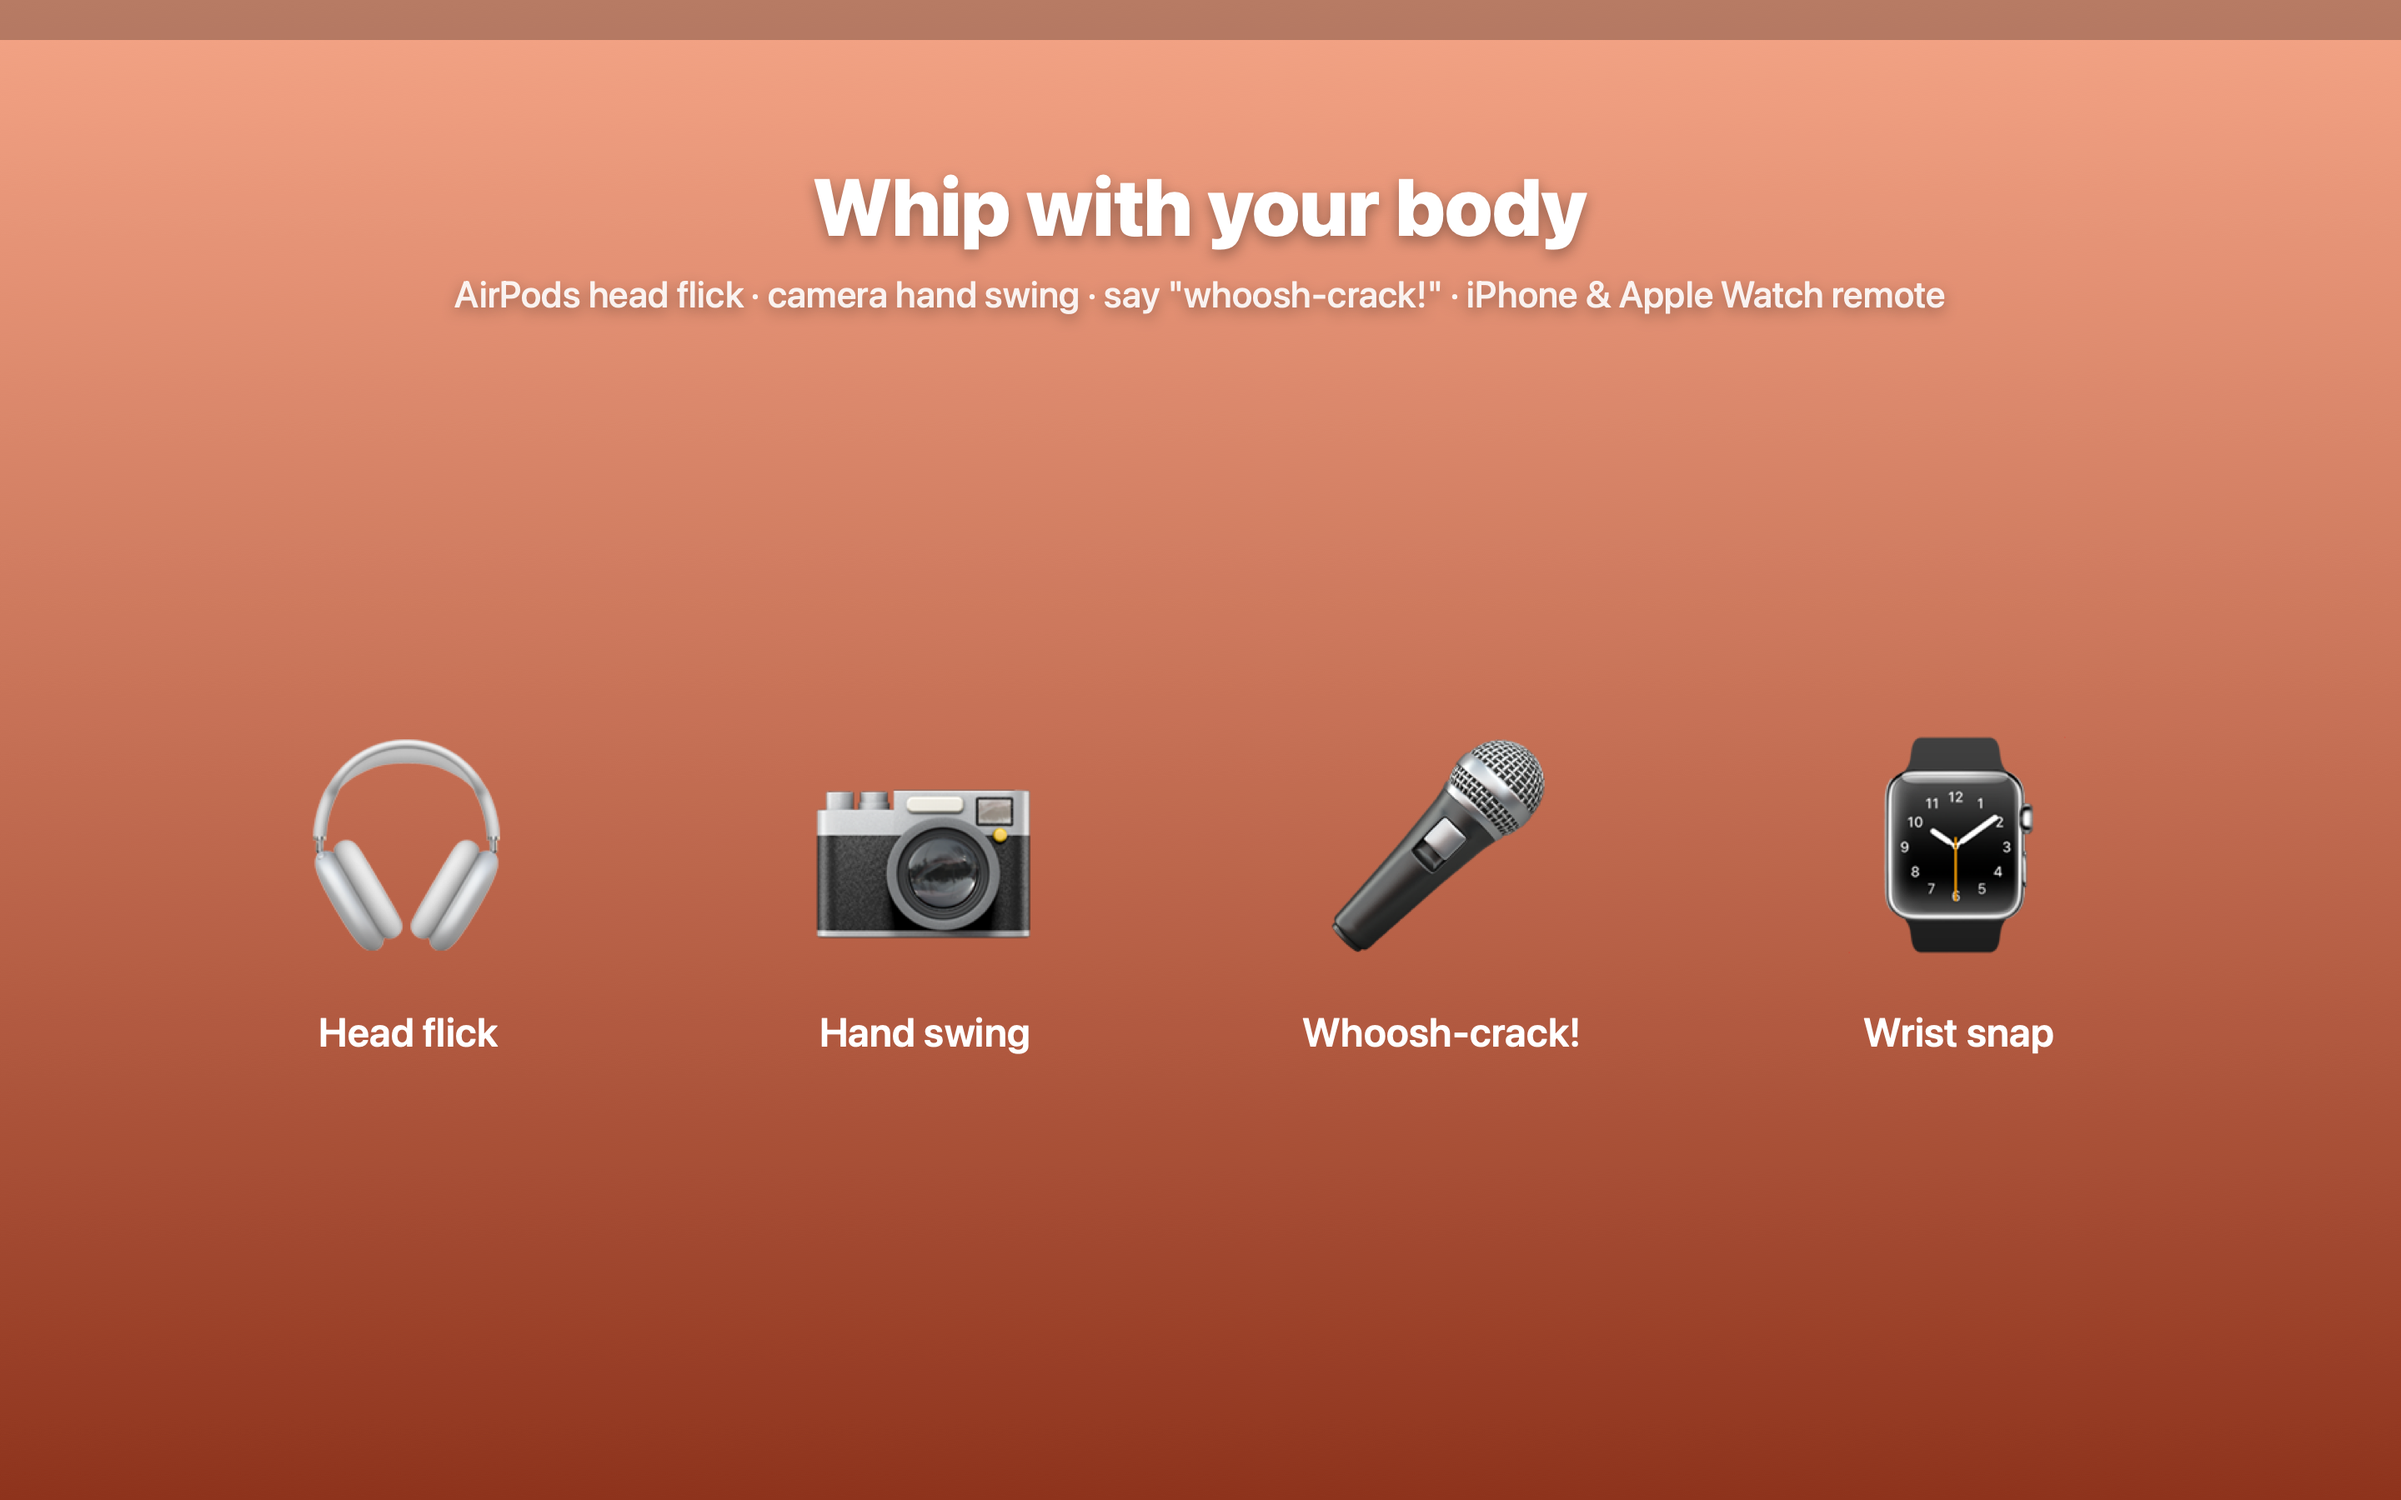
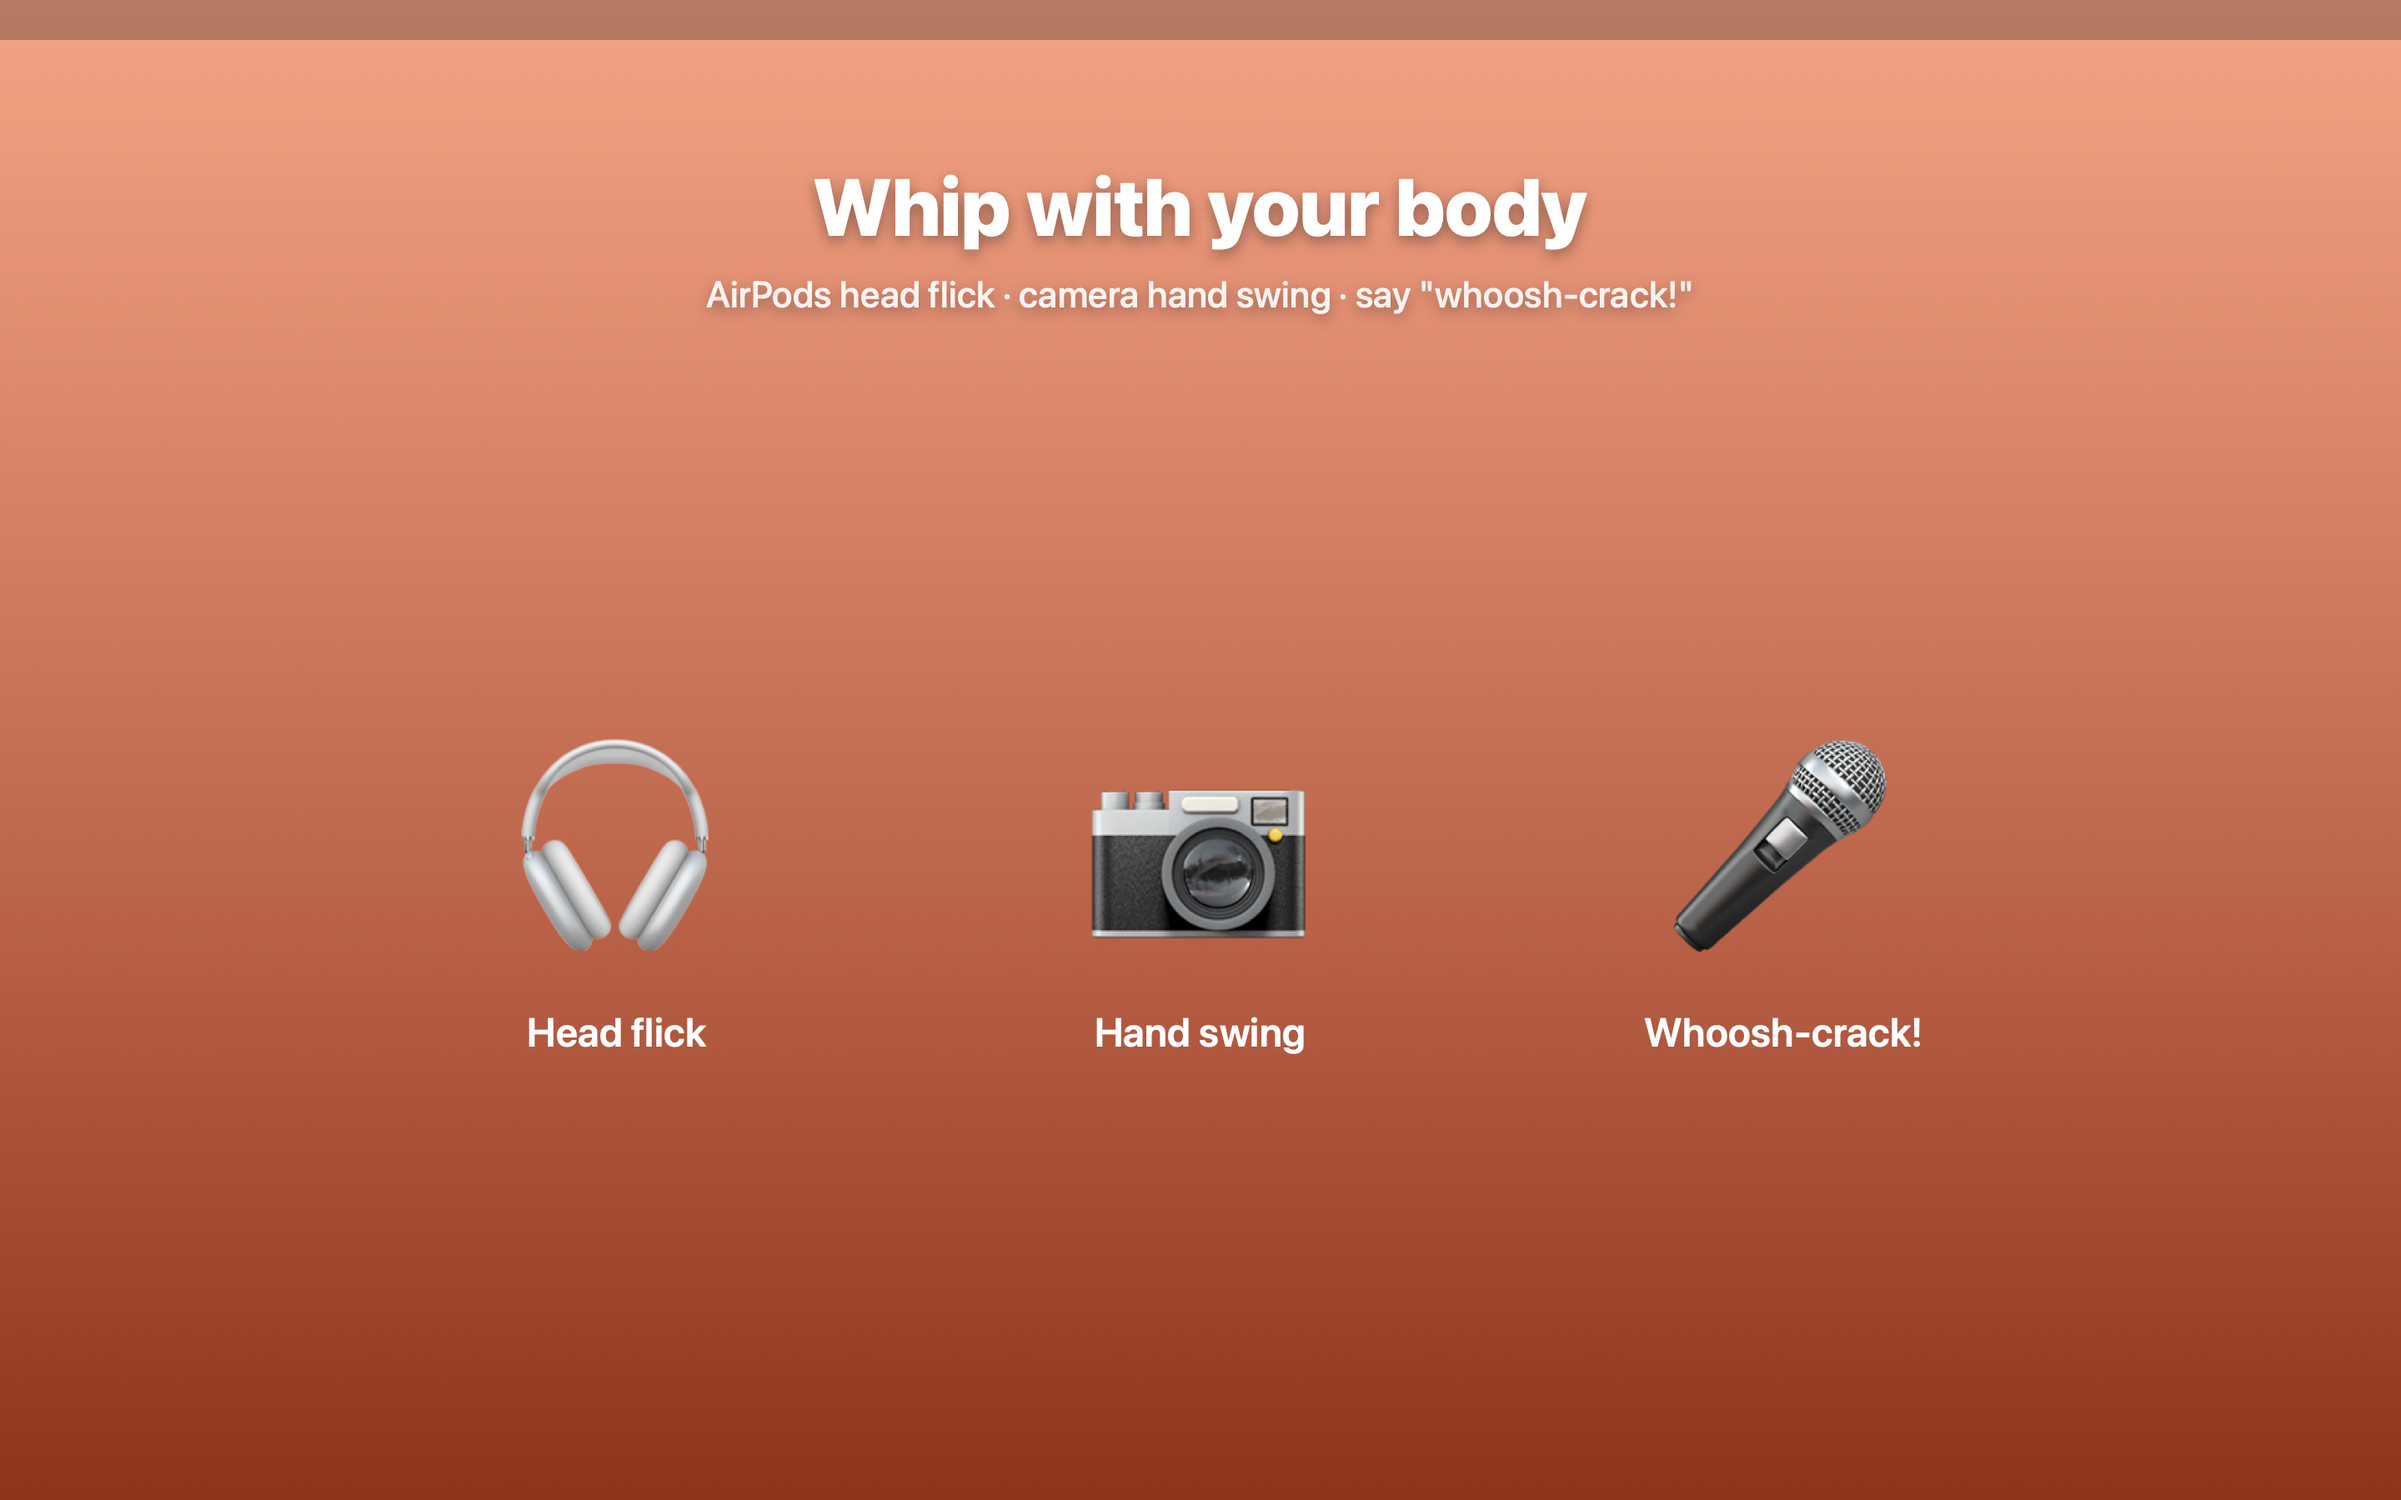
앱스토어판 빌드 5: 리모트와 네트워크 권한 제거, 심사 재제출
애플 자동 검사가 빌드 4의 com.apple.security.network.server 를 "맞는 기능이 안 보인다"며 멈췄고
(2026-11-12), 설명 답장(11-13)에 이틀 동안 답이 없어 권한을 빼는 쪽으로 갔다.

- 샌드박스일 때 아이폰·워치 리모트 스위치를 숨기고 수신을 시작하지 않는다
- Whiplash.entitlements 에서 network.server / network.client 제거
- 앱스토어 빌드의 Info.plist 에서 로컬 네트워크 키 제거 (project.yml 빌드 후 스크립트, build.sh --sandbox)
- 스크린샷 5와 스토어 설명에서 리모트 언급 제거
- release.sh: Xcode 계정 로그인이 풀렸을 때 App Store Connect API 열쇠로 올리는 옵션
- 체크리스트: 2026-11-15 재제출 상태

소스 빌드판(전 기능)은 그대로다.

diff --git a/Sources/App.swift b/Sources/App.swift
@@ -1181,10 +1181,13 @@ final class AppDelegate: NSObject, NSApplicationDelegate, NSMenuDelegate {
         line(m.handCamOn ? handSwing.status : t("Swing a hand sideways in front of the camera, arm's length away"))
         body.addItem(menuItem(t("Say \"whoosh-crack!\" — microphone"), on: m.mouthOn) { m.mouthOn.toggle() })
         line(m.mouthOn ? mouth.status : t("A short sharp burst after a quiet moment; talking doesn't count"))
-        body.addItem(menuItem(t("Accept iPhone / iPad / Apple Watch remote"), on: m.remoteOn) { m.remoteOn.toggle() })
-        line(m.remoteOn ? remote.status : t("Whiplash Remote app on the same Wi‑Fi: flick the phone, snap the wrist, or tap"))
+        // 리모트는 들어오는 연결을 받는 기능이라 앱스토어판(샌드박스)에는 없다 — 네트워크 권한을 아예 안 싣는다
+        if !Paths.sandboxed {
+            body.addItem(menuItem(t("Accept iPhone / iPad / Apple Watch remote"), on: m.remoteOn) { m.remoteOn.toggle() })
+            line(m.remoteOn ? remote.status : t("Whiplash Remote app on the same Wi‑Fi: flick the phone, snap the wrist, or tap"))
+        }
         body.addItem(.separator())
-        let hint = NSMenuItem(title: t("Sensors, camera, microphone and network are used only while on. Nothing is recorded."), action: nil, keyEquivalent: "")
+        let hint = NSMenuItem(title: Paths.sandboxed ? t("Sensors, camera and microphone are used only while on. Nothing is recorded.") : t("Sensors, camera, microphone and network are used only while on. Nothing is recorded."), action: nil, keyEquivalent: "")
         hint.isEnabled = false
         body.addItem(hint)
         menu.addItem(submenu(t("Whip with your body"), body))
@@ -1300,7 +1303,7 @@ final class AppDelegate: NSObject, NSApplicationDelegate, NSMenuDelegate {
     private func syncBodyWhips() {
         if #available(macOS 14.0, *), let hf = headFlick as? HeadFlick { model.headFlickOn ? hf.start() : hf.stop() }
         model.handCamOn ? handSwing.start() : handSwing.stop()
-        model.remoteOn ? remote.start() : remote.stop()
+        model.remoteOn && !Paths.sandboxed ? remote.start() : remote.stop()      // 앱스토어판은 듣지 않는다
         model.mouthOn ? mouth.start() : mouth.stop()
     }
     private func reloadHotKeysIfChanged() {

diff --git a/tools/shots.swift b/tools/shots.swift
@@ -103,14 +103,15 @@ shot("4-whip.png") {
 
 // 5. Body whips
 shot("5-body.png") {
-    caption("Whip with your body", "AirPods head flick · camera hand swing · say \"whoosh-crack!\" · iPhone & Apple Watch remote", y: 1480)
+    // 앱스토어판에는 아이폰·워치 리모트가 없다 (네트워크 권한을 안 싣는다) — 세 가지만 보여 준다
+    caption("Whip with your body", "AirPods head flick · camera hand swing · say \"whoosh-crack!\"", y: 1480)
     let para = NSMutableParagraphStyle(); para.alignment = .center
     let f: [NSAttributedString.Key: Any] = [.font: NSFont.systemFont(ofSize: 260), .paragraphStyle: para]
-    for (i, e) in ["🎧", "📷", "🎤", "⌚"].enumerated() {
-        NSString(string: e).draw(in: NSRect(x: 240 + CGFloat(i) * 620, y: 620, width: 500, height: 320), withAttributes: f)
+    for (i, e) in ["🎧", "📷", "🎤"].enumerated() {
+        NSString(string: e).draw(in: NSRect(x: 490 + CGFloat(i) * 700, y: 620, width: 500, height: 320), withAttributes: f)
     }
     let s: [NSAttributedString.Key: Any] = [.font: NSFont.systemFont(ofSize: 48, weight: .semibold), .foregroundColor: NSColor.white, .paragraphStyle: para]
-    for (i, e) in ["Head flick", "Hand swing", "Whoosh-crack!", "Wrist snap"].enumerated() {
-        NSString(string: e).draw(in: NSRect(x: 240 + CGFloat(i) * 620, y: 520, width: 500, height: 70), withAttributes: s)
+    for (i, e) in ["Head flick", "Hand swing", "Whoosh-crack!"].enumerated() {
+        NSString(string: e).draw(in: NSRect(x: 490 + CGFloat(i) * 700, y: 520, width: 500, height: 70), withAttributes: s)
     }
 }

diff --git a/Sources/Lang.swift b/Sources/Lang.swift
@@ -145,6 +145,7 @@ enum L10n {
         "Accept iPhone / iPad / Apple Watch remote": ("아이폰·아이패드·애플워치 리모트 받기", "iPhone・iPad・Apple Watch のリモートを受ける"),
         "Say \"whoosh-crack!\" — microphone": ("입으로 「화츅!」 — 마이크", "口で「ヒュッ！」 — マイク"),
         "Sensors, camera, microphone and network are used only while on. Nothing is recorded.": ("켠 동안만 센서·카메라·마이크·네트워크를 써요. 녹화·녹음은 없어요.", "オンの間だけセンサー・カメラ・マイク・ネットワークを使います。録画・録音はしません。"),
+        "Sensors, camera and microphone are used only while on. Nothing is recorded.": ("켠 동안만 센서·카메라·마이크를 써요. 녹화·녹음은 없어요.", "オンの間だけセンサー・カメラ・マイクを使います。録画・録音はしません。"),
         "Checking microphone permission…": ("마이크 권한 확인 중…", "マイクの権限を確認中…"),
         "Microphone access denied — System Settings › Privacy › Microphone": ("마이크 권한이 거부됐어요 — 시스템 설정 › 개인정보 보호 › 마이크", "マイクのアクセスが拒否されました — システム設定 › プライバシー › マイク"),
         "Couldn't open the microphone": ("마이크를 못 열었어요", "マイクを開けませんでした"),
